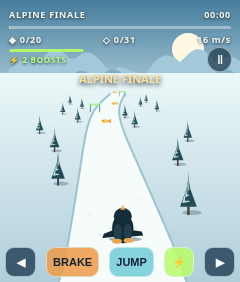
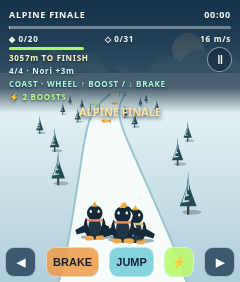
Add rival racing, wheel controls and finish-line results

diff --git a/game.js b/game.js
@@ -1,7 +1,7 @@
 import {renderScene} from './renderer.js';
-import {COURSES,center,width,newRun,step,jump,grade,score,clamp} from './engine.js';
+import {COURSES,center,width,newRun,step,jump,grade,score,racePlace,clamp} from './engine.js';
 const $=id=>document.getElementById(id),canvas=$('scene'),ctx=canvas.getContext('2d');
-let pickerPage=0;let boostQueued=false;let state='menu',selected=0,unlocked=0,run=null,last=0,tilt=0,tiltBase=null,tiltLive=false,tiltAt=0,noticeUntil=0,keys=new Set(),touch={left:false,right:false,brake:false},audio=null;
+let pickerPage=0;let boostQueued=false;let state='menu',selected=0,unlocked=0,run=null,last=0,tilt=0,tiltBase=null,tiltLive=false,tiltAt=0,noticeUntil=0,keys=new Set(),touch={left:false,right:false,brake:false},audio=null,wheelBrake=false,lastTap=null;
 try{unlocked=clamp(Number(localStorage.getItem('snowline-unlocked'))||0,0,COURSES.length-1)}catch{}
 function sound(type){try{audio ||= new (window.AudioContext||window.webkitAudioContext)();const o=audio.createOscillator(),g=audio.createGain(),t=audio.currentTime;o.type=type==='hit'?'sawtooth':'sine';o.frequency.setValueAtTime(type==='fish'?580:type==='hit'?130:380,t);o.frequency.exponentialRampToValueAtTime(type==='fish'?900:type==='hit'?75:510,t+.13);g.gain.setValueAtTime(.0001,t);g.gain.exponentialRampToValueAtTime(.085,t+.014);g.gain.exponentialRampToValueAtTime(.0001,t+.16);o.connect(g).connect(audio.destination);o.start(t);o.stop(t+.17)}catch{}}
 function announce(s){$('notice').textContent=s;noticeUntil=performance.now()+1100}
@@ -22,21 +22,28 @@ function picker(){
  });root.append(list)
 }
 function describeCourse(){const c=COURSES[selected];$('description').textContent=`${c.subtitle}. ${c.length}m · ${c.gateCount} gates · ${c.target} fish · ${c.time}s par.`}
-function menu(mode='menu'){state=mode;$('panel').hidden=false;$('controls').hidden=true;$('hud').hidden=true;$('pause').hidden=true;$('panel').querySelector('h1').innerHTML='SNOWLINE<br><em>SPRINT</em>';$('primary').innerHTML='START DESCENT <span>↗</span>';$('menuButton').hidden=true;pickerPage=Math.floor(selected/5);picker();describeCourse()}
-function start(){run=newRun(selected);tiltBase=null;tiltLive=false;state='racing';$('panel').hidden=true;$('controls').hidden=false;$('hud').hidden=false;$('pause').hidden=false;last=performance.now();announce(COURSES[selected].name.toUpperCase());audio?.resume();requestTilt()}
+function menu(mode='menu'){state=mode;$('panel').classList.remove('results');$('panel').hidden=false;$('controls').hidden=true;$('hud').hidden=true;$('pause').hidden=true;$('panel').querySelector('h1').innerHTML='SNOWLINE<br><em>SPRINT</em>';$('primary').innerHTML='START DESCENT <span>↗</span>';$('menuButton').hidden=true;pickerPage=Math.floor(selected/5);picker();describeCourse()}
+function start(){run=newRun(selected);tiltBase=null;tiltLive=false;wheelBrake=false;lastTap=null;state='racing';$('panel').classList.remove('results');$('panel').hidden=true;$('controls').hidden=false;$('hud').hidden=false;$('pause').hidden=false;last=performance.now();announce(COURSES[selected].name.toUpperCase());audio?.resume();requestTilt()}
 function requestTilt(){if(typeof DeviceOrientationEvent==='undefined')return;if(typeof DeviceOrientationEvent.requestPermission==='function'){DeviceOrientationEvent.requestPermission().catch(()=>{});} }
 window.addEventListener('deviceorientation',e=>{if(typeof e.gamma!=='number')return;if(tiltBase===null)tiltBase=e.gamma;tilt=clamp((e.gamma-tiltBase)/24,-1,1);tiltLive=true;tiltAt=performance.now()});
-function finish(){state='results';$('hud').hidden=true;$('controls').hidden=true;$('pause').hidden=true;$('panel').hidden=false;const win=grade(run);if(win&&selected===unlocked&&unlocked<COURSES.length-1){unlocked++;pickerPage=Math.floor(unlocked/5);try{localStorage.setItem('snowline-unlocked',String(unlocked))}catch{}}picker();$('panel').querySelector('h1').innerHTML=win?'SUMMIT<br><em>CLEARED</em>':'RUN<br><em>COMPLETE</em>';$('description').textContent=`${COURSES[selected].name} · ${Math.ceil(run.elapsed)}s · ${run.fish} fish · ${run.gates}/${run.course.gateCount} gates · ${run.hits} hits. Score ${score(run)}. ${win?(selected<COURSES.length-1?'Next level unlocked.':'All 25 levels cleared!'):'Medal: collect target fish, clear 65% of gates, beat par, and take fewer than four hits.'}`;$('primary').innerHTML='RACE AGAIN <span>↗</span>';$('menuButton').hidden=false;sound(win?'fish':'hit')}
-$('menuButton').onclick=()=>menu();$('primary').onclick=()=>{if(state==='paused'){state='racing';$('panel').hidden=true;last=performance.now();return}start()};$('pause').onclick=()=>{if(state!=='racing')return;state='paused';$('panel').hidden=false;$('panel').querySelector('h1').innerHTML='TAKE A<br><em>BREATH</em>';$('description').textContent='The mountain waits. Tilt to steer, or use the arrows. Hold brake on tight turns.';$('primary').innerHTML='RESUME <span>↗</span>';$('menuButton').hidden=false};
-for(const id of ['left','right','brake']){const b=$(id);b.onpointerdown=e=>{e.preventDefault();b.setPointerCapture(e.pointerId);touch[id]=true};b.onpointerup=b.onpointercancel=()=>touch[id]=false}
+function finish(){state='results';$('hud').hidden=true;$('controls').hidden=true;$('pause').hidden=true;$('panel').hidden=false;$('panel').classList.add('results');const medal=grade(run),place=racePlace(run),win=medal&&place===1;if(win&&selected===unlocked&&unlocked<COURSES.length-1){unlocked++;pickerPage=Math.floor(unlocked/5);try{localStorage.setItem('snowline-unlocked',String(unlocked))}catch{}}picker();$('panel').querySelector('h1').innerHTML='FINISH LINE<br><em>'+ (place===1?'VICTORY':`PLACE ${place} / 4`) +'</em>';$('description').textContent=`${COURSES[selected].name} · ${Math.ceil(run.elapsed)}s · ${run.fish} fish · ${run.gates}/${run.course.gateCount} gates · ${run.hits} hits · Score ${score(run)}. ${medal?'Medal earned.':'Medal needs target fish, 65% gates, par time and fewer than four hits.'} ${win?(selected<COURSES.length-1?'Next level unlocked.':'All 25 levels cleared!'):'Finish first with a medal to unlock the next level.'}`;$('primary').innerHTML=win&&selected<COURSES.length-1?'NEXT LEVEL <span>↗</span>':'RACE AGAIN <span>↗</span>';$('menuButton').hidden=false;sound(win?'fish':'hit')}
+$('menuButton').onclick=()=>menu();$('primary').onclick=()=>{if(state==='paused'){state='racing';$('panel').hidden=true;last=performance.now();return}if(state==='results'&&grade(run)&&racePlace(run)===1&&selected<COURSES.length-1)selected++;start()};$('pause').onclick=()=>{if(state!=='racing')return;state='paused';$('panel').classList.remove('results');$('panel').hidden=false;$('panel').querySelector('h1').innerHTML='TAKE A<br><em>BREATH</em>';$('description').textContent='The mountain waits. Tilt to steer, or use the arrows. Hold brake on tight turns.';$('primary').innerHTML='RESUME <span>↗</span>';$('menuButton').hidden=false};
+for(const id of ['left','right','brake']){const b=$(id);b.onpointerdown=e=>{e.preventDefault();b.setPointerCapture(e.pointerId);if(id==='brake'&&wheelBrake){wheelBrake=false;announce('BRAKE RELEASED')}else touch[id]=true};b.onpointerup=b.onpointercancel=()=>touch[id]=false}
 $('boost').onpointerdown=e=>{e.preventDefault();if(state==='racing')boostQueued=true};
 $('jump').onpointerdown=e=>{e.preventDefault();if(state==='racing')jump(run)};
+// Gesture detector listens on the playfield, never UI buttons or panel.
+// Pointer identity, travel and duration disqualify drags; a triple tap is one jump.
+const taps=new Map();
+$('shell').addEventListener('pointerdown',e=>{if(state!=='racing'||e.target.closest('button,.controls,.panel,.hud'))return;taps.set(e.pointerId,{x:e.clientX,y:e.clientY,t:performance.now()})});
+$('shell').addEventListener('pointercancel',e=>{taps.delete(e.pointerId);lastTap=null});
+$('shell').addEventListener('pointerup',e=>{const down=taps.get(e.pointerId);taps.delete(e.pointerId);if(!down||state!=='racing')return;const now=performance.now();if(now-down.t>300||Math.hypot(e.clientX-down.x,e.clientY-down.y)>18){lastTap=null;return}if(lastTap&&lastTap.id===e.pointerType&&now-lastTap.t<360&&Math.hypot(e.clientX-lastTap.x,e.clientY-lastTap.y)<75){jump(run);lastTap=null}else lastTap={x:e.clientX,y:e.clientY,t:now,id:e.pointerType}});
+window.addEventListener('wheel',e=>{if(state!=='racing'||!e.deltaY)return;e.preventDefault();if(e.deltaY<0){wheelBrake=false;boostQueued=true;announce('WHEEL ↑ BOOST')}else{wheelBrake=true;announce('WHEEL ↓ BRAKE')}},{passive:false});
 window.addEventListener('keydown',e=>{if(['ArrowLeft','ArrowRight','ArrowDown','Space'].includes(e.code))e.preventDefault();keys.add(e.code);if((e.code==='ArrowUp'||e.code==='KeyW')&&state==='racing'&&!e.repeat)boostQueued=true;if(e.code==='Space'&&state==='racing'&&!e.repeat)jump(run);if(e.code==='Escape'&&state==='racing')$('pause').click()});window.addEventListener('keyup',e=>keys.delete(e.code));
-function render(){const c=run?.course||COURSES[selected];renderScene(ctx,run,c,performance.now());if(run){$('timer').textContent=`${Math.floor(run.elapsed/60).toString().padStart(2,'0')}:${Math.floor(run.elapsed%60).toString().padStart(2,'0')}`;$('fishHud').textContent=`◆ ${run.fish}/${c.target}`;$('gateHud').textContent=`◇ ${run.gates}/${c.gateCount}`;$('speedHud').textContent=`${Math.round(run.speed)} m/s`;$('progress').style.width=`${run.z/c.length*100}%`;$('staminaFill').style.width=`${run.stamina}%`;$('boostHud').textContent=`⚡ ${run.boostCharges} BOOST${run.boostCharges===1?'':'S'}`;$('courseHud').textContent=c.name.toUpperCase()}}
+function render(){const c=run?.course||COURSES[selected];renderScene(ctx,run,c,performance.now());if(run){$('timer').textContent=`${Math.floor(run.elapsed/60).toString().padStart(2,'0')}:${Math.floor(run.elapsed%60).toString().padStart(2,'0')}`;$('fishHud').textContent=`◆ ${run.fish}/${c.target}`;$('gateHud').textContent=`◇ ${run.gates}/${c.gateCount}`;$('speedHud').textContent=`${Math.round(run.speed)} m/s`;$('progress').style.width=`${run.z/c.length*100}%`;$('staminaFill').style.width=`${run.stamina}%`;$('boostHud').textContent=`⚡ ${run.boostCharges} BOOST${run.boostCharges===1?'':'S'}`;$('courseHud').textContent=c.name.toUpperCase();$('distanceHud').textContent=`${Math.ceil(Math.max(0,c.length-run.z))}m TO FINISH`;const place=racePlace(run);$('rivalsHud').textContent=`${place}/4 · ${[...run.rivals].sort((a,b)=>Math.abs(a.z-run.z)-Math.abs(b.z-run.z)).slice(0,1).map(r=>`${r.name} ${Math.round(r.z-run.z)>0?'+':''}${Math.round(r.z-run.z)}m`).join('')}`;$('modeHud').textContent=run.brake?'BRAKING · WHEEL ↑ BOOST':run.boost>0?'BOOSTING · WHEEL ↓ BRAKE':'COAST · WHEEL ↑ BOOST / ↓ BRAKE'}}
 function frame(t){const dt=Math.min(.05,(t-last)/1000||0);last=t;if(state==='racing'){
  const steer=(touch.right||keys.has('ArrowRight')||keys.has('KeyD')?1:0)-(touch.left||keys.has('ArrowLeft')||keys.has('KeyA')?1:0);
  // Touch/keyboard takes priority while pressed; sensor tilt takes over otherwise.
- step(run,dt,{steer:steer||((tiltLive&&t-tiltAt<1000&&Math.abs(tilt)>.08)?tilt:0),brake:touch.brake||keys.has('ArrowDown')||keys.has('KeyS'),boost:boostQueued});boostQueued=false;
+ step(run,dt,{steer:steer||((tiltLive&&t-tiltAt<1000&&Math.abs(tilt)>.08)?tilt:0),brake:wheelBrake||touch.brake||keys.has('ArrowDown')||keys.has('KeyS'),boost:boostQueued});boostQueued=false;
  for(const e of run.events){if(e==='fish'||e==='gate'||e==='hit'||e==='ramp'){announce({fish:'FISH +85',gate:'CLEAN GATE +160',hit:'ROCK! SLOW DOWN',ramp:'AIRBORNE',boost:'BOOST!',charge:'BOOST +1'}[e]);sound(e)}}if(run.finished)finish();}
  if(t>noticeUntil)$('notice').textContent='';render();requestAnimationFrame(frame)}
 picker();describeCourse();requestAnimationFrame(frame);

diff --git a/renderer.js b/renderer.js
@@ -1,26 +1,29 @@
-import {center,width,clamp} from './engine.js';
+import {center,width,clamp,rivalX} from './engine.js';
 const poly=(g,points,fill)=>{g.fillStyle=fill;g.beginPath();g.moveTo(...points[0]);for(let i=1;i<points.length;i++)g.lineTo(...points[i]);g.closePath();g.fill()};
 const ellipse=(g,x,y,rx,ry,color)=>{g.fillStyle=color;g.beginPath();g.ellipse(x,y,Math.max(.2,rx),Math.max(.2,ry),0,0,7);g.fill()};
 const rng=n=>{let v=Math.sin(n*127.1+45.6)*43758.5453;return v-Math.floor(v)};
 function pine(g,x,y,s,night){if(s<.25)return;g.save();g.translate(x,y);g.scale(s,s);ellipse(g,3,1,8,2,'#426b8766');g.fillStyle='#513f3b';g.fillRect(-1,-12,2,15);for(let i=0;i<3;i++){let a=7-i*4;poly(g,[[-a,-4-i*5],[0,-23-i*5],[a,-4-i*5]],night?'#173449':'#244c55');poly(g,[[-a*.76,-7-i*5],[0,-23-i*5],[a*.15,-8-i*5]],night?'#66818b':'#c1e1e3')}g.restore()}
-// Tux is prone and sliding away from the chase camera: the head/beak point up
-// the hill on screen, the dark back faces us, and the feet trail near the camera.
-function penguin(g,x,y,air,lean,scale=1,t=0){
+// Prone downhill silhouette: orange beak leads uphill on screen, broad white
+// cheek/neck patches frame the black crown, flippers and webbed feet trail.
+function penguin(g,x,y,air,lean,scale=1,t=0,scarf='#e58d5c'){
  g.save();g.translate(x,y-air*7);g.rotate(lean*.1);g.scale(scale,scale);
- const kick=Math.sin(t*.012)*2;
- ellipse(g,3,21+air*7,20,3,'#19435866');
- // Sliding belly/snow contact is mostly hidden beneath the dark dorsal silhouette.
- ellipse(g,0,11,18,11,'#e9f3ed');
- poly(g,[[-12,10],[-23,13+kick],[-25,18+kick],[-8,18]],'#112733');
- poly(g,[[12,10],[23,13-kick],[25,18-kick],[8,18]],'#112733');
- ellipse(g,0,8,13,18,'#132b37');
- ellipse(g,-6,12,5,10,'#213f4d');ellipse(g,6,12,5,10,'#213f4d');
- ellipse(g,0,-7,11,10,'#142d3a');
- // A tiny orange beak peeks past the forward-facing head, not at the camera.
- poly(g,[[-3,-15],[3,-15],[0,-21]],'#f6ab48');
- ellipse(g,-7,23+kick*.4,6,3,'#eda64d');ellipse(g,7,23-kick*.4,6,3,'#eda64d');
- g.restore()
+ const kick=Math.sin(t*.012)*1.7;
+ ellipse(g,3,22+air*7,21,3,'#19435866');
+ ellipse(g,0,9,17,12,'#f6f6e9'); // pale belly seen at the sides
+ poly(g,[[-11,5],[-25,12+kick],[-23,18+kick],[-9,15]],'#152938');
+ poly(g,[[11,5],[25,12-kick],[23,18-kick],[9,15]],'#152938');
+ ellipse(g,0,8,14,17,'#172a39');
+ ellipse(g,0,2,10,12,'#f3f3e9'); // recognizable white penguin bib
+ ellipse(g,0,8,8,12,'#213747'); // dorsal spine of prone rider
+ ellipse(g,-7,-7,5,7,'#f6f6e9');ellipse(g,7,-7,5,7,'#f6f6e9');
+ ellipse(g,0,-9,10,10,'#142938');
+ ellipse(g,-5,-11,1.5,2,'#faf9ed');ellipse(g,5,-11,1.5,2,'#faf9ed');
+ poly(g,[[-4,-17],[4,-17],[0,-24]],'#f4a542');
+ g.fillStyle=scarf;g.fillRect(-10,-1,20,3);
+ ellipse(g,-7,23+kick*.4,6,3,'#efa94d');ellipse(g,7,23-kick*.4,6,3,'#efa94d');
+ g.restore();
 }
+const qFor=d=>1/(1+d*.029);
 function drawObject(g,o,x,y,s,night){g.save();g.translate(x,y);g.scale(s,s);if(o.type==='fish'){ellipse(g,0,-8,8,4,'#fbc35f');poly(g,[[5,-8],[13,-13],[13,-3]],'#f5a942');ellipse(g,-3,-9,1,1,'#173d44')}else if(o.type==='boost'){ellipse(g,0,-9,11,11,'#b5f65666');ellipse(g,0,-9,8,8,'#adf768');poly(g,[[2,-16],[-4,-8],[0,-8],[-3,-1],[6,-11],[1,-11]],'#1c4450')}else if(o.type==='gate'){g.strokeStyle=night?'#a7f2dc':'#2c6e81';g.lineWidth=2;for(const a of [-13,13]){g.beginPath();g.moveTo(a,0);g.lineTo(a,-25);g.stroke();ellipse(g,a,-25,2,2,'#d8fff6')}poly(g,[[-13,-24],[13,-24],[13,-19],[-13,-19]],'#b0ef81')}else if(o.type==='rock'){poly(g,[[-10,0],[-6,-9],[1,-14],[7,-10],[12,0]],'#547187');poly(g,[[-6,-9],[1,-14],[4,-10],[-2,-7]],'#effaff')}else{poly(g,[[-13,0],[13,0],[8,-5],[-9,-5]],'#d98c5f');g.fillStyle='#ffe9d2';g.fillRect(-8,-5,15,1)}g.restore()}
 export function renderScene(g,run,course,t){const c=course,z=run?.z||0,night=c.theme==='dusk',ice=c.theme==='ice',sky=g.createLinearGradient(0,0,0,240);sky.addColorStop(0,night?'#13233e':ice?'#467d9d':'#527f99');sky.addColorStop(.55,night?'#d47b7f':'#d8edf0');sky.addColorStop(1,'#d5e5ed');g.fillStyle=sky;g.fillRect(0,0,240,282);
  ellipse(g,188,49,night?12:16,night?12:16,night?'#fff3d5':'#fff9e3');
@@ -33,5 +36,7 @@ export function renderScene(g,run,course,t){const c=course,z=run?.z||0,night=c.t
  // Terrain ribbon texture and offset groves preserve depth without WebGL or downloaded assets.
  for(let n=0;n<50;n++){let zz=Math.floor(z/11)*11+n*11,d=zz-z;if(d<0||d>245)continue;let q=1/(1+d*.029),side=n%2?1:-1,xx=center(zz,c)+side*(width(zz,c)*.5+.11+rng(n*3+c.seed)*.9),p=point(d,xx);pine(g,p.x,p.y,clamp(1.5*q,.16,1.2),night)}
  for(let n=0;n<75;n++){let zz=Math.floor(z/5)*5+n*5,d=zz-z;if(d<0||d>190)continue;let p=point(d,center(zz,c)+(rng(n*17+c.seed)-.5)*width(zz,c)*.8);ellipse(g,p.x,p.y,Math.max(.5,p.q*1.7),Math.max(.3,p.q*.6),night?'#b8b6ce77':'#a2c7d376')}
- if(run){for(const o of run.objects){let d=o.z-z;if(d<0||d>235)continue;let p=point(d,o.x);drawObject(g,o,p.x,p.y,clamp(p.q*1.5,.2,1.4),night)}let rider=point(-8,run.x);if(run.boost>0){for(let i=0;i<7;i++){let x=rider.x+(rng(i*13+t*.002)-.5)*32,y=235+i*7;ellipse(g,x,y,1+i*.2,3,'#b8f86baa')}}penguin(g,rider.x,222,run.air,run.steer,.82,t)}else penguin(g,120,217,0,0,.85,t);
+ if(run){const finishD=c.length-z;if(finishD>=-12&&finishD<=235){const q=1/(1+finishD*.029),w=width(c.length,c)*.5,left=point(finishD,center(c.length,c)-w),right=point(finishD,center(c.length,c)+w);g.save();g.strokeStyle='#172b3c';g.lineWidth=Math.max(2,q*12);g.setLineDash([Math.max(2,q*8),Math.max(2,q*8)]);g.beginPath();g.moveTo(left.x,left.y);g.lineTo(right.x,right.y);g.stroke();g.setLineDash([]);g.fillStyle='#edb55c';g.fillRect(left.x-2,left.y-28*q,3,28*q);g.fillRect(right.x-1,right.y-28*q,3,28*q);g.fillStyle='#162d40';g.font=`bold ${Math.max(5,9*q)}px sans-serif`;g.textAlign='center';g.fillText('FINISH', (left.x+right.x)/2,left.y-14*q);g.restore()}
+ for(const rival of [...run.rivals].sort((a,b)=>b.z-a.z)){const d=rival.z-z;if(d< -15||d>235)continue;const p=point(d,rivalX(rival,rival.z,c));penguin(g,p.x,p.y-7*qFor(d),0,0,clamp(p.q*.9,.23,.78),t+rival.phase*100,['#e78c73','#8dd7e2','#dfc37c'][run.rivals.indexOf(rival)])}
+ for(const o of run.objects){let d=o.z-z;if(d<0||d>235)continue;let p=point(d,o.x);drawObject(g,o,p.x,p.y,clamp(p.q*1.5,.2,1.4),night)}let rider=point(-8,run.x);if(run.boost>0){for(let i=0;i<7;i++){let x=rider.x+(rng(i*13+t*.002)-.5)*32,y=235+i*7;ellipse(g,x,y,1+i*.2,3,'#b8f86baa')}}penguin(g,rider.x,222,run.air,run.steer,.82,t)}else penguin(g,120,217,0,0,.85,t);
 }

diff --git a/index.html b/index.html
@@ -1,1 +1,1 @@
-<!doctype html><html lang="en"><head><meta charset="utf-8"><meta name="viewport" content="width=device-width,initial-scale=1,maximum-scale=1,user-scalable=no,viewport-fit=cover"><meta name="theme-color" content="#101e34"><title>Snowline Sprint</title><link rel="stylesheet" href="style.css"></head><body><main id="shell" aria-label="Snowline Sprint game"><canvas id="scene" width="240" height="282" aria-label="Downhill game course"></canvas><div class="hud" id="hud" hidden><div class="hud-top"><span id="courseHud">PINEWAKE</span><span id="timer">00:00</span></div><div class="meter"><div id="progress"></div></div><div class="hud-bottom"><span id="fishHud">◆ 0/5</span><span id="gateHud">◇ 0/7</span><span id="speedHud">14 m/s</span></div><div class="stamina"><div id="staminaFill"></div></div><div id="boostHud">⚡ 2 BOOSTS</div></div><div id="notice" aria-live="polite"></div><div class="controls" id="controls" hidden><button id="left" aria-label="Steer left">◀</button><button id="brake" aria-label="Hold to brake">BRAKE</button><button id="jump" aria-label="Jump">JUMP</button><button id="boost" aria-label="Boost">⚡</button><button id="right" aria-label="Steer right">▶</button></div><button id="pause" class="pause" aria-label="Pause race" hidden>Ⅱ</button><section class="panel" id="panel"><div class="eyebrow">AN ORIGINAL MOUNTAIN ARCADE</div><h1>SNOWLINE<br><em>SPRINT</em></h1><p id="description">25 alpine descents. Thread the gates, gather fish, and outrun the clock.</p><div class="course-picker" id="picker"></div><button class="primary" id="primary">START DESCENT <span>↗</span></button><button class="secondary" id="menuButton" hidden>COURSE MENU</button><p class="tip" id="tip">Tilt to steer · touch arrows if tilt is unavailable<br>Brake to carve · jump rocks · boost on straights</p></section></main><script type="module" src="game.js"></script></body></html>
+<!doctype html><html lang="en"><head><meta charset="utf-8"><meta name="viewport" content="width=device-width,initial-scale=1,maximum-scale=1,user-scalable=no,viewport-fit=cover"><meta name="theme-color" content="#101e34"><title>Snowline Sprint</title><link rel="stylesheet" href="style.css"></head><body><main id="shell" aria-label="Snowline Sprint game"><canvas id="scene" width="240" height="282" aria-label="Downhill game course"></canvas><div class="hud" id="hud" hidden><div class="hud-top"><span id="courseHud">PINEWAKE</span><span id="timer">00:00</span></div><div class="meter"><div id="progress"></div></div><div class="hud-bottom"><span id="fishHud">◆ 0/5</span><span id="gateHud">◇ 0/7</span><span id="speedHud">14 m/s</span></div><div class="stamina"><div id="staminaFill"></div></div><div id="distanceHud">900m TO FINISH</div><div id="rivalsHud">1/4 · LEAD</div><div id="modeHud">COAST · WHEEL ↑ BOOST / ↓ BRAKE</div><div id="boostHud">⚡ 2 BOOSTS</div></div><div id="notice" aria-live="polite"></div><div class="controls" id="controls" hidden><button id="left" aria-label="Steer left">◀</button><button id="brake" aria-label="Hold to brake">BRAKE</button><button id="jump" aria-label="Jump">JUMP</button><button id="boost" aria-label="Boost">⚡</button><button id="right" aria-label="Steer right">▶</button></div><button id="pause" class="pause" aria-label="Pause race" hidden>Ⅱ</button><section class="panel" id="panel"><div class="eyebrow">AN ORIGINAL MOUNTAIN ARCADE</div><h1>SNOWLINE<br><em>SPRINT</em></h1><p id="description">25 alpine descents. Thread the gates, gather fish, and outrun the clock.</p><div class="course-picker" id="picker"></div><button class="primary" id="primary">START DESCENT <span>↗</span></button><button class="secondary" id="menuButton" hidden>COURSE MENU</button><p class="tip" id="tip">Tilt to steer · touch arrows if tilt is unavailable<br>Double-tap anywhere to jump · wheel up boosts / down brakes<br>Touch BRAKE, JUMP and ⚡ if wheel is unavailable</p></section></main><script type="module" src="game.js"></script></body></html>

diff --git a/engine.js b/engine.js
@@ -36,16 +36,19 @@ export function makeObjects(c){
   for(let i=0;i<4;i++) { const z=80+i*(c.length-160)/4; objects.push({type:'fish',z,x:center(z,c),id:`bonus${i}`}); }
   return objects.sort((a,b)=>a.z-b.z);
 }
+export const RIVAL_NAMES=['Skye','Pip','Nori'];
+export function rivalX(r,z,c){return center(z,c)+r.lane+Math.sin(z*.013+r.phase)*.055;}
+export function racePlace(s){return 1+s.rivals.filter(r=>r.z>s.z || (s.finished&&r.finishedAt!==null&&r.finishedAt<s.finishTime)).length;}
 export function newRun(courseIndex=0){
   const c=COURSES[courseIndex];if(!c)throw Error('Unknown course');
-  return {courseIndex,course:c,objects:makeObjects(c),seen:new Set(),x:center(0,c),z:0,speed:14,elapsed:0,fish:0,gates:0,missed:0,hits:0,jumps:0,air:0,vy:0,stun:0,invuln:0,stamina:100,boost:0,boostCharges:2,boostCooldown:0,brake:false,steer:0,finished:false,events:[]};
+  return {courseIndex,course:c,objects:makeObjects(c),seen:new Set(),x:center(0,c),z:0,speed:14,elapsed:0,fish:0,gates:0,missed:0,hits:0,jumps:0,air:0,vy:0,stun:0,invuln:0,stamina:100,boost:0,boostCharges:2,boostCooldown:0,brake:false,steer:0,finished:false,finishTime:null,rivals:RIVAL_NAMES.map((name,j)=>({name,lane:(j-1)*.16,phase:j*2.1,z:0,finishedAt:null,pace:clamp(29.5-j*1.55+courseIndex*.045,28,31)})),events:[]};
 }
 export function jump(s){if(s.finished||s.air>0||s.stun>0)return false;s.vy=3.5;s.air=.01;s.jumps++;s.events.push('jump');return true;}
 export function grade(s){return s.fish>=s.course.target && s.gates>=Math.ceil(s.course.gateCount*.65) && s.elapsed<=s.course.time && s.hits<4;}
 export function score(s){return Math.max(0,Math.round(s.gates*160+s.fish*85+Math.max(0,s.course.time-s.elapsed)*12-s.hits*100-s.missed*45));}
 export function step(s,dt,input={}){
   if(s.finished)return s;
-  dt=clamp(dt,0,.05);s.events=[];s.elapsed+=dt;s.steer=clamp(input.steer||0,-1,1);s.brake=!!input.brake;
+  dt=clamp(dt,0,.05);s.events=[];s.elapsed+=dt;for(const r of s.rivals){if(r.finishedAt!==null)continue;const oldR=r.z;r.z=Math.min(s.course.length,r.z+r.pace*(1+.055*Math.sin(s.elapsed*.43+r.phase))*dt);if(r.z>=s.course.length)r.finishedAt=s.elapsed-dt+dt*(s.course.length-oldR)/(r.pace*(1+.055*Math.sin(s.elapsed*.43+r.phase))*dt||1);}s.steer=clamp(input.steer||0,-1,1);s.brake=!!input.brake;
   s.boostCooldown=Math.max(0,s.boostCooldown-dt);if(input.boost&&s.boostCharges>0&&s.boostCooldown===0&&s.stamina>=20){s.boostCharges--;s.stamina-=20;s.boost=.9;s.boostCooldown=2.5;s.events.push('boost');}s.boost=Math.max(0,s.boost-dt);s.stamina=clamp(s.stamina+(s.brake?4:1.5)*dt,0,100);s.stun=Math.max(0,s.stun-dt);s.invuln=Math.max(0,s.invuln-dt);
   const target=s.brake?9:s.boost>0?44:27+Math.min(5,s.z/300);s.speed+=(target-s.speed)*Math.min(1,dt*(s.stun?1.5:.65));
   const old=s.z;s.z=Math.min(s.course.length,s.z+s.speed*dt);
@@ -60,6 +63,6 @@ export function step(s,dt,input={}){
     if(o.type==='ramp'&&dx<.16&&s.air===0){s.vy=4.5;s.air=.01;s.jumps++;s.events.push('ramp');}
     if(o.type==='rock'&&dx<.16&&s.air<.13&&s.invuln<=0){s.hits++;s.stamina=Math.max(0,s.stamina-18);s.stun=.8;s.invuln=1.3;s.speed*=.46;s.events.push('hit');}
   }
-  if(s.z>=s.course.length){s.finished=true;s.events.push('finish');}
+  if(s.z>=s.course.length){s.finished=true;s.finishTime=s.elapsed-dt+dt*(s.course.length-old)/(s.speed*dt||1);s.events.push('finish');}
   return s;
 }

diff --git a/style.css b/style.css
@@ -4,3 +4,7 @@
 .stamina{height:3px;background:#17394aaf;border-radius:4px;margin-top:3px;width:75px}.stamina div{height:100%;background:#adf66e;border-radius:4px;width:100%}#boostHud{font-size:8px;color:#bdfc76;margin-top:2px}.controls #boost{background:#b9fb6be0;color:#102b35;min-width:30px}.controls #left,.controls #right{min-width:31px}.controls #brake{min-width:47px}.controls #jump{min-width:41px}.panel{background:linear-gradient(180deg,#0a2032b0,#092338eb 54%,#081a2af8)}
 
 .course-picker{display:block;margin:0 0 7px}.picker-nav{display:flex;align-items:center;justify-content:space-between;margin-bottom:4px;font-size:8px;font-weight:850;letter-spacing:.08em}.picker-nav button{flex:none;width:28px;padding:3px}.picker-list{display:grid;grid-template-columns:1fr 1fr;gap:3px}.picker-list button{text-align:left;white-space:nowrap;overflow:hidden;text-overflow:ellipsis;padding:4px;font-size:8px}.panel{padding-top:16px}.panel h1{font-size:27px;margin:7px 0 5px}.panel p{margin-bottom:6px}
+
+#distanceHud,#rivalsHud,#modeHud{font-size:8px;margin-top:2px;color:#fff4b9}#modeHud{color:#adf6dd}.panel.results{background:linear-gradient(180deg,#112b41a6 0%,#092338bc 39%,#061928f0 75%)}.panel.results h1{margin-top:22px}.panel.results .course-picker{display:none}.panel.results #description{font-size:11px;line-height:1.5;background:#071a29b8;border:1px solid #8fd7d58c;border-radius:8px;padding:9px;margin:8px 0 12px}.panel.results .tip{margin-top:9px}
+.hud{background:linear-gradient(#102b40e8,#102b40b8 78%,transparent);padding-bottom:11px}.hud-top{font-size:9px}.hud-bottom{font-size:8px}#distanceHud,#rivalsHud,#modeHud{white-space:nowrap;overflow:hidden;text-overflow:ellipsis;text-shadow:0 1px 2px #082433}.hud #rivalsHud{color:#d5f5f2}#notice{top:104px}.panel.results{top:99px;padding:8px 12px;background:linear-gradient(#09263bec,#071a2afa)}.panel.results .eyebrow{display:none}.panel.results h1{font-size:22px;margin:0 0 3px}.panel.results #description{font-size:9px;line-height:1.3;padding:5px;margin:2px 0 4px}.panel.results .tip{display:none}.panel.results .primary{padding:6px}.panel.results .secondary{padding:4px;margin-top:3px}
+.panel.results{top:0;bottom:111px;padding:7px 12px}.panel.results h1{font-size:20px}.panel.results #description{font-size:8px;line-height:1.25;padding:4px;margin:2px 0 3px}.panel.results .primary{padding:5px}.panel.results .secondary{padding:3px}

diff --git a/tests/engine.test.js b/tests/engine.test.js
@@ -1,4 +1,4 @@
-import test from 'node:test';import assert from 'node:assert/strict';import {COURSES,newRun,step,jump,grade,score,center} from '../engine.js';
+import test from 'node:test';import assert from 'node:assert/strict';import {COURSES,newRun,step,jump,grade,score,center,racePlace} from '../engine.js';
 test('distinct compact courses have deterministic collectible and gate paths',()=>{for(let i=0;i<3;i++){const a=newRun(i),b=newRun(i);assert.deepEqual(a.objects,b.objects);assert.equal(a.objects.filter(o=>o.type==='gate').length,COURSES[i].gateCount);assert.ok(a.objects.some(o=>o.type==='fish'));assert.ok(a.objects.some(o=>o.type==='rock'));assert.ok(a.objects.some(o=>o.type==='ramp'))}});
 test('braking slows and steering displaces',()=>{const a=newRun(),b=newRun();for(let i=0;i<60;i++){step(a,.05,{steer:1});step(b,.05,{brake:true})}assert.ok(a.x>center(a.z,a.course));assert.ok(b.z<a.z)});
 test('jump blocks repeat airborne and lands',()=>{const s=newRun();assert.equal(jump(s),true);assert.equal(jump(s),false);for(let i=0;i<45;i++)step(s,.05,{});assert.equal(s.air,0);assert.equal(jump(s),true)});
@@ -28,4 +28,8 @@ test('every level can finish and satisfy its medal requirements',()=>{
   medal.gates=Math.ceil(c.gateCount*.65);medal.fish=c.target;medal.elapsed=c.length/27+9;
   assert.ok(grade(medal),`level ${i+1} medal feasible at clean race speed`);
  }
+});
+test('rivals advance independently, finish and place all 25 stages',()=>{
+ for(let i=0;i<25;i++){const s=newRun(i);assert.equal(s.rivals.length,3);for(let k=0;k<5000&&!s.finished;k++)step(s,.05,{});assert.ok(s.finished);assert.ok(s.rivals.every(r=>r.z>0));assert.ok(racePlace(s)>=1&&racePlace(s)<=4);for(let k=0;k<1000&&s.rivals.some(r=>r.finishedAt===null);k++){/* frozen after crossing: result is fixed at the player's finish instant */} }
+ const a=newRun(),b=newRun();for(let i=0;i<800&&!a.finished;i++){step(a,.05,{boost:i%55===0});step(b,.05,{brake:true})}assert.ok(a.rivals[0].z>b.rivals[0].z-1);assert.ok(racePlace(a)>=1&&racePlace(a)<=4);
 });

diff --git a/README.md b/README.md
@@ -1,29 +1,27 @@
 # Snowline Sprint
 
-An original, offline-capable portrait downhill arcade game for the Rabbit R1's 240 × 282 browser. The chase view draws Tux belly-down, sliding away from the camera toward the slope; no third-party game assets are bundled. Inspired by the visual character and mechanics of [Tux Racer · Alpine](https://tux-racer-alpine-reborn.geekthegreybeard.chatgpt.site/), not an official Tux Racer product.
+An original portrait downhill arcade game for the Rabbit R1's 240 × 282 browser. Tux races belly-down toward the finish against three penguin rivals on 25 progressively longer alpine courses. No third-party game assets are bundled. Inspired by [Tux Racer · Alpine](https://tux-racer-alpine-reborn.geekthegreybeard.chatgpt.site/), not an official Tux Racer product.
 
 ## Play and install
 
-[Play the 25-level release](https://geekthegreybeard.github.io/r1-tux-racer/?release=20260927-25-levels). On R1, open **Creations card → Create tab → Add via QR code** and scan the release-specific Creation card QR below. Physical R1 installation is unverified.
+[Play this release](https://geekthegreybeard.github.io/r1-tux-racer/?release=20260927-rivals-finish-wheel). On R1, open **Creations card → Create tab → Add via QR code** and scan this installation QR from another screen. It encodes the five-field Creation metadata JSON, **not just a URL**, following [Rabbit's Creations SDK QR generator](https://github.com/rabbit-hmi-oss/creations-sdk/tree/main/qr). Its decoded JSON matches [`snowline-sprint-r1-card.json`](snowline-sprint-r1-card.json). Physical R1 installation remains unverified.
 
 ![Snowline Sprint R1 installation QR](snowline-sprint-r1-install-qr.png)
 
 ## Actual 240 × 282 browser screenshots
 
-| Menu | Level 1 race | Level 25 race | Result |
-|---|---|---|---|
-| ![Menu](screenshot-menu.png) | ![Pinewake](screenshot-gameplay.png) | ![Alpine Finale](screenshot-level25-gameplay.png) | ![Results](screenshot-results.png) |
+| Menu | Race | Finish | Victory / next level | Level 25 |
+|---|---|---|---|---|
+| ![Menu](screenshot-menu.png) | ![Race with rivals](screenshot-gameplay.png) | ![Finish-line result](screenshot-results.png) | ![Victory](screenshot-victory.png) | ![Alpine Finale](screenshot-level25-gameplay.png) |
 
-The level-25 screenshot uses a test-only unlocked browser storage state. Results are fast-forwarded to exercise the screen; these screenshots do not establish a human-played clear.
+The level-25 screenshot uses test-only unlocked storage. Result screenshots fast-forward or set qualifying race data to exercise the finish screen; they do not establish a human-played clear.
 
-## Campaign and controls
+## Controls and race
 
-There are **exactly 25 named, sequentially unlocked levels**, Pinewake through Alpine Finale. Every next level is 90 metres longer and has one more gate; fish targets rise, slopes bend more, the track narrows, gate offsets widen and par time per metre decreases. The five-page level picker shows five stages at a time, with locked stages disabled. The final descent measures 3,060 metres, with 31 gates and a 20-fish target. A medal unlocks the next level: collect target fish, clear at least 65% of gates, finish within par and take fewer than four hits. Unlocks persist in local storage where available. The final medal completes the campaign without inventing another stage.
+Tilt left/right to steer, calibrated at race start. Touch arrows override tilt and work without sensor events. **Double-tap the playfield anywhere outside buttons and menus to jump**; JUMP remains a one-tap fallback. An upward wheel event releases braking and requests a charged boost; a downward wheel event engages persistent braking. The HUD shows COAST, BOOSTING or BRAKING, remaining boost charges, metres to finish, place out of four and the nearest rival's lead or gap. With no physical wheel event, use ⚡ to boost and hold BRAKE to slow; keyboard W/up boosts, S/down brakes, Space jumps, A/D or arrows steer, Escape pauses. Tap BRAKE once to release latched wheel braking if the wheel is unavailable; otherwise hold BRAKE to slow.
 
-Tilt left/right to steer, calibrated at each race start; touch arrows override tilt when held and work if sensors are unavailable. Hold BRAKE to carve, tap JUMP to clear rocks, and tap ⚡ to spend a boost charge. Keyboard: arrows or A/D, S/down to brake, Space to jump, W/up to boost, Escape to pause. Fish restore stamina; rocks slow Tux and drain stamina; green pickups replenish boost charges. The edge slows Tux. Short synthesized audio cues start after interaction.
+Fish refill stamina, green pickups refill boosts, rocks slow Tux, and the edge slows the run. The marked finish line approaches within the visible track, and crossing freezes the player **at the line** under a result card with placing, medal and score. Three deterministic rivals travel the same course independently, with per-level pace and visible relative placement. First place **and** the existing medal criteria unlock the next level: target fish, at least 65% of gates, par time and fewer than four hits. NEXT LEVEL advances immediately on victory; RACE AGAIN and COURSE MENU cover other outcomes. All 25 named levels, pickups, scoring and persisted sequential unlocks remain. The final medal finishes the campaign without adding a 26th level.
 
-## Test and implementation notes
+## Validation and limitations
 
-Run `npm test` and `npm run test:browser` after `npm install` and `npx playwright install chromium`. Node tests check deterministic layouts, mechanics, all 25 distinct stage specifications, monotonically increasing distance and gate counts, finishability and medal feasibility under a clean-race benchmark. Browser tests exercise 240 × 282 rendering, touch steering, jumping, boosting, pause/resume, results, a qualifying unlock persisted across reload and level-25 selection/start; they write the screenshots above and `screenshot-level25-menu.png`. The browser results fast-forward is **not** a manual balance clear. On-device R1 sensor mapping, touch ergonomics, installation, audio and sustained frame rate remain unverified.
-
-This is a compact 2D single-player canvas game, not the PC reference's expansive 3D terrain or multiplayer. The terrain, character, scenery and sound are procedural and original; no PC artwork, code or media was copied. Host the directory with `python3 -m http.server 8000` and open `http://localhost:8000/` for local play. Browser storage may be disabled, in which case unlocks last only for the current session.
+Run `npm test` and `npm run test:browser` after `npm install` and `npx playwright install chromium`. Engine tests cover all 25 courses, rival progression, finishing and ranking. Browser tests exercise touch steering, double-tap separation from UI, simulated wheel directions, HUD, pause, finish hold, victory unlock, next-level action, persistent unlock and level 25 at 240 × 282. The screenshots are real Chromium renders, not R1 photos. A browser can consume standard `wheel` events, but [Rabbit's public Creations page](https://www.rabbit.tech/creations) does not document whether the embedded R1 runtime forwards its physical wheel as DOM `wheel`; tilt axis, wheel direction, device performance, on-device ergonomics, QR acceptance and sustained play balance all require a physical R1 check. Browser tests do not verify hardware. This is a compact 2D racer, not the reference game's 3D terrain or multiplayer, and is not a Gallery submission.
